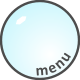
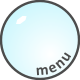
enable keyword Id on all files

diff --git a/client/source/class/remocular/ui/Menu.js b/client/source/class/remocular/ui/Menu.js
@@ -25,7 +25,7 @@ qx.Class.define("remocular.ui.Menu",{
             cursor: 'pointer'
         });
         
-        this.moveTo(-30,-50);
+        this.moveTo(-33,-50);
 
         var mP = this.__menuPopup = new qx.ui.popup.Popup(new qx.ui.layout.VBox(0));
         mP.moveTo(5,5);
@@ -69,7 +69,7 @@ qx.Class.define("remocular.ui.Menu",{
 
             var hide = new qx.fx.effect.core.Move(startEl).set({
                 mode: 'absolute',
-                x: -30,
+                x: -33,
                 y: -50,
                 duration: 0.8,
                 transition: 'spring'
@@ -141,20 +141,28 @@ qx.Class.define("remocular.ui.Menu",{
                 this.__handleRequest();
                 this.__history.addListener('request',this.__handleRequest,this);
                 this.__menuPopup.add(menu);
-                this.__menuPopup.add(this.__makeVersion());
+                this.__menuPopup.add(this.__makeAdmin(ret.admin_name,ret.admin_link));
             }
             else {
                 var msg = remocular.ui.MsgBox.getInstance();
                 msg.error(this.tr('Error'), exc['message'] + ' (' + exc['code'] + ')');
             };
         },
-        __makeVersion: function(){
+        __makeAdmin: function(name,link){
             var v = new qx.ui.container.Composite(new qx.ui.layout.VBox(2)).set({
                  padding: [2,5,2,5]
             });
-            v.add(new qx.ui.basic.Label(this.tr('by Tobi Oetiker')).set({
-                alignX: 'right'                
-            }));
+            var l = new qx.ui.basic.Label(name).set({
+                alignX: 'right',
+                cursor: 'pointer'
+            });
+
+            if (link){
+                l.addListener('click',function(){
+                    qx.bom.Window.open(link, name);
+                },this)
+            }
+            v.add(l);
             return v
         },
         __makeButton : function (item){
